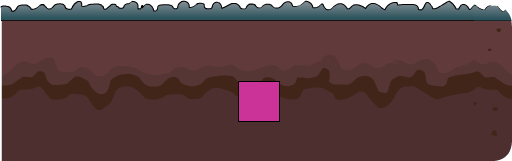
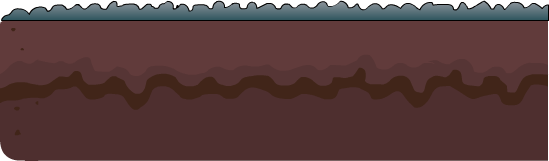
Updated level2 graphics

diff --git a/html/scripts/level2.js b/html/scripts/level2.js
@@ -7,16 +7,18 @@
  */
 var manifest = [
 	{src: "assets/images/mcTileMidDip.png", id: "PhysicsBorderRect"},
-	{src: "assets/images/mcTileMidDip.png", id: "TileMidDip"},
-	{src: "assets/images/mcTileMidBump.png", id: "TileMidBump"},
-	{src: "assets/images/mcTileEndLeft.png", id: "TileEndLeft"},
-	{src: "assets/images/mcTileEndRight.png", id: "TileEndRight"},
-	{src: "assets/images/mcTileBlockLeft.png", id: "TileBlockLeft"},
-	{src: "assets/images/mcTileBlockLeft2.png", id: "TileBlockLeft2"},
-	{src: "assets/images/mcTileBlockRight.png", id: "TileBlockRight"},
+	
+	{src: "assets/images/junkyard/mcTileMidDip.png", id: "TileMidDip"},
+	{src: "assets/images/junkyard/mcTileMidBump.png", id: "TileMidBump"},
+	{src: "assets/images/junkyard/mcTileEndLeft.png", id: "TileEndLeft"},
+	{src: "assets/images/junkyard/mcTileEndRight.png", id: "TileEndRight"},
+	{src: "assets/images/junkyard/mcTileBlockLeft.png", id: "TileBlockLeft"},
+	{src: "assets/images/junkyard/mcTileBlockLeft2.png", id: "TileBlockLeft2"},
+	{src: "assets/images/junkyard/mcTileBlockRight.png", id: "TileBlockRight"},
+	{src: "assets/images/junkyard/mcRamp.png", id: "Ramp"},
+	
 	{src: "assets/images/mcRobotJunk1.png", id: "RobotJunk1"},
 	{src: "assets/images/mcRobotJunk2.png", id: "RobotJunk2"},
-	{src: "assets/images/mcRamp.png", id: "Ramp"},
 	{src: "assets/images/gSign.png", id: "Sign"},
 	{src: "assets/images/Teleportor.png", id: "Teleportor"},
 	{src: "assets/images/mcTileMidDip.png", id: "Trigger"},
@@ -30,7 +32,9 @@ var manifest = [
 var songSet = 'pink-think';
 var deathZone = 4000;
 var nextLevelUrl = "level3.html";
-var level = {"elements":[{"type":"ParallaxBG","x":0,"height":326,"y":586,"width":2048},{"x":4336,"rotation":0,"y":2929,"type":"TileMidDip","height":163,"width":514.8},{"type":"TileBlockRight","x":5441,"height":513.7,"y":2775,"width":718.7},{"x":4836,"rotation":0,"y":2929,"type":"TileMidDip","height":163,"width":514.8},{"type":"Teleportor","x":4704,"height":322.8,"y":2731,"width":321},{"x":2459,"rotation":0,"y":2933,"type":"TileEndLeft","height":176.55,"width":192.75},{"x":2810,"rotation":0,"y":2939,"type":"TileMidBump","height":183,"width":516.55},{"x":3319,"rotation":0,"y":2929,"type":"TileMidDip","height":163,"width":514.8},{"x":3827,"rotation":0,"y":2939,"type":"TileMidBump","height":183,"width":516.55},{"x":3350,"rotation":0,"y":2818,"type":"TileEndLeft","height":176.55,"width":192.75},{"x":3534,"rotation":0,"y":2817,"type":"TileEndRight","height":176.55,"width":192.85},{"x":1452,"rotation":0,"y":3095,"type":"TileMidBump","height":183,"width":516.55},{"x":1961,"rotation":0,"y":3086,"type":"TileMidDip","height":163,"width":514.8},{"x":2301,"rotation":0,"y":3092,"type":"TileEndRight","height":176.55,"width":192.85},{"type":"RobotJunk1","x":2900,"height":184.5,"y":2851,"width":276.65},{"x":403,"rotation":0,"y":574,"type":"TileEndLeft","height":176.55,"width":192.75},{"x":753,"rotation":0,"y":577,"type":"TileMidBump","height":183,"width":516.55},{"x":1262,"rotation":0,"y":567,"type":"TileMidDip","height":163,"width":514.8},{"signText":"Well done! Did you know you can put numbers inside the parentheses?\n<br><br>\nLike this:\n<span class=\"codeExample\">jaxi.run(<b>800</b>);</span>\n<br><br>\nThis is called a <b>parameter</b>.","x":956,"y":384,"type":"Sign","scaleX":1,"height":278.6,"scaleY":1,"width":201.7},{"x":2598,"rotation":0,"y":578,"type":"TileEndRight","height":176.55,"width":192.85},{"x":2264,"rotation":0,"y":578,"type":"TileMidBump","height":183,"width":516.55},{"x":1774,"rotation":0,"y":578,"type":"TileMidBump","height":183,"width":516.55},{"x":2181,"y":480,"type":"Ramp","scaleX":1,"height":207.5,"scaleY":1,"width":944.9},{"type":"BubblePop","x":844,"height":174.8,"y":419,"width":177.6},{"x":2613,"rotation":-31.518768310546875,"y":1678,"type":"TileEndLeft","height":176.55,"width":196.6},{"x":2914,"rotation":-31.518768310546875,"y":1497,"type":"TileMidBump","height":183,"width":520.55},{"x":3557,"rotation":-85.51199340820313,"y":302,"type":"TileMidDip","height":163,"width":518.35},{"x":3685,"rotation":-74.99945068359375,"y":-1017,"type":"TileEndRight","height":176.55,"width":192.85},{"x":3464,"rotation":-70.51361083984375,"y":749,"type":"TileMidDip","height":163,"width":518.35},{"x":3252,"rotation":-55.51463317871094,"y":1178,"type":"TileMidBump","height":183,"width":520.55},{"type":"TileBlockLeft2","x":856,"height":520.05,"y":2925,"width":718.7},{"type":"RobotJunk1","x":1568,"height":184.5,"y":2987,"width":276.65},{"type":"RobotJunk1","x":1438,"height":184.5,"y":2957,"width":276.65},{"type":"RobotJunk1","x":1348,"height":184.5,"y":2997,"width":276.65},{"type":"RobotJunk2","x":1818,"height":151.3,"y":3029,"width":297.7},{"x":1027,"y":-132,"type":"gjaxi"},{"x":2169,"y":2904,"type":"Choco"},{"type":"RobotJunk1","x":1478,"height":184.5,"y":3027,"width":276.65},{"x":1609,"js":"runConversation(0);","y":3009,"type":"Trigger","height":47.3,"width":801.5},{"type":"RobotJunk2","x":4211,"height":151.3,"y":2909,"width":297.7},{"x":3636,"rotation":-85.51199340820313,"y":-689,"type":"TileMidDip","height":163,"width":518.35},{"x":3596,"rotation":-85.51199340820313,"y":-181,"type":"TileMidDip","height":163,"width":518.35},{"x":1486,"rotation":0,"y":666,"type":"PhysicsBorderRect","height":256,"width":2332},{"x":3626,"rotation":4.9647216796875,"y":-209,"type":"PhysicsBorderRect","height":1751,"width":128.4},{"x":887,"rotation":0,"y":2937,"type":"PhysicsBorderRect","height":500,"width":643.5},{"x":1815,"rotation":0,"y":3195,"type":"PhysicsBorderRect","height":256,"width":1279},{"x":3746,"rotation":0,"y":3050,"type":"PhysicsBorderRect","height":256,"width":2681.5},{"x":5446,"rotation":0,"y":2785,"type":"PhysicsBorderRect","height":500,"width":707.8},{"x":3439,"rotation":0,"y":2867,"type":"PhysicsBorderRect","height":172.7,"width":271.1},{"x":3497,"rotation":19.96435546875,"y":809,"type":"PhysicsBorderRect","height":344.8,"width":100.9},{"x":3304,"rotation":34.963134765625,"y":1164,"type":"PhysicsBorderRect","height":481.3,"width":100.9},{"x":2888,"rotation":58.7034912109375,"y":1534,"type":"PhysicsBorderRect","height":683.5,"width":100.9},{"type":"ParallaxFG","x":0,"height":1024,"y":0,"width":337}]}
+
+//var level = {"elements":[{"type":"ParallaxBG","x":0,"height":326,"y":586,"width":2048},{"x":4336,"rotation":0,"y":2929,"type":"TileMidDip","height":163,"width":514.8},{"type":"TileBlockRight","x":5441,"height":513.7,"y":2775,"width":718.7},{"x":4836,"rotation":0,"y":2929,"type":"TileMidDip","height":163,"width":514.8},{"type":"Teleportor","x":4704,"height":322.8,"y":2731,"width":321},{"x":2459,"rotation":0,"y":2933,"type":"TileEndLeft","height":176.55,"width":192.75},{"x":2810,"rotation":0,"y":2939,"type":"TileMidBump","height":183,"width":516.55},{"x":3319,"rotation":0,"y":2929,"type":"TileMidDip","height":163,"width":514.8},{"x":3827,"rotation":0,"y":2939,"type":"TileMidBump","height":183,"width":516.55},{"x":3350,"rotation":0,"y":2818,"type":"TileEndLeft","height":176.55,"width":192.75},{"x":3534,"rotation":0,"y":2817,"type":"TileEndRight","height":176.55,"width":192.85},{"x":1452,"rotation":0,"y":3095,"type":"TileMidBump","height":183,"width":516.55},{"x":1961,"rotation":0,"y":3086,"type":"TileMidDip","height":163,"width":514.8},{"x":2301,"rotation":0,"y":3092,"type":"TileEndRight","height":176.55,"width":192.85},{"type":"RobotJunk1","x":2900,"height":184.5,"y":2851,"width":276.65},{"x":403,"rotation":0,"y":574,"type":"TileEndLeft","height":176.55,"width":192.75},{"x":753,"rotation":0,"y":577,"type":"TileMidBump","height":183,"width":516.55},{"x":1262,"rotation":0,"y":567,"type":"TileMidDip","height":163,"width":514.8},{"signText":"Well done! Did you know you can put numbers inside the parentheses?\n<br><br>\nLike this:\n<span class=\"codeExample\">jaxi.run(<b>800</b>);</span>\n<br><br>\nThis is called a <b>parameter</b>.","x":956,"y":384,"type":"Sign","scaleX":1,"height":278.6,"scaleY":1,"width":201.7},{"x":2598,"rotation":0,"y":578,"type":"TileEndRight","height":176.55,"width":192.85},{"x":2264,"rotation":0,"y":578,"type":"TileMidBump","height":183,"width":516.55},{"x":1774,"rotation":0,"y":578,"type":"TileMidBump","height":183,"width":516.55},{"x":2181,"y":480,"type":"Ramp","scaleX":1,"height":207.5,"scaleY":1,"width":944.9},{"type":"BubblePop","x":844,"height":174.8,"y":419,"width":177.6},{"x":2613,"rotation":-31.518768310546875,"y":1678,"type":"TileEndLeft","height":176.55,"width":196.6},{"x":2914,"rotation":-31.518768310546875,"y":1497,"type":"TileMidBump","height":183,"width":520.55},{"x":3557,"rotation":-85.51199340820313,"y":302,"type":"TileMidDip","height":163,"width":518.35},{"x":3685,"rotation":-74.99945068359375,"y":-1017,"type":"TileEndRight","height":176.55,"width":192.85},{"x":3464,"rotation":-70.51361083984375,"y":749,"type":"TileMidDip","height":163,"width":518.35},{"x":3252,"rotation":-55.51463317871094,"y":1178,"type":"TileMidBump","height":183,"width":520.55},{"type":"TileBlockLeft2","x":856,"height":520.05,"y":2925,"width":718.7},{"type":"RobotJunk1","x":1568,"height":184.5,"y":2987,"width":276.65},{"type":"RobotJunk1","x":1438,"height":184.5,"y":2957,"width":276.65},{"type":"RobotJunk1","x":1348,"height":184.5,"y":2997,"width":276.65},{"type":"RobotJunk2","x":1818,"height":151.3,"y":3029,"width":297.7},{"x":1027,"y":-132,"type":"gjaxi"},{"x":2169,"y":2904,"type":"Choco"},{"type":"RobotJunk1","x":1478,"height":184.5,"y":3027,"width":276.65},{"x":1609,"js":"runConversation(0);","y":3009,"type":"Trigger","height":47.3,"width":801.5},{"type":"RobotJunk2","x":4211,"height":151.3,"y":2909,"width":297.7},{"x":3636,"rotation":-85.51199340820313,"y":-689,"type":"TileMidDip","height":163,"width":518.35},{"x":3596,"rotation":-85.51199340820313,"y":-181,"type":"TileMidDip","height":163,"width":518.35},{"x":1486,"rotation":0,"y":666,"type":"PhysicsBorderRect","height":256,"width":2332},{"x":3626,"rotation":4.9647216796875,"y":-209,"type":"PhysicsBorderRect","height":1751,"width":128.4},{"x":887,"rotation":0,"y":2937,"type":"PhysicsBorderRect","height":500,"width":643.5},{"x":1815,"rotation":0,"y":3195,"type":"PhysicsBorderRect","height":256,"width":1279},{"x":3746,"rotation":0,"y":3050,"type":"PhysicsBorderRect","height":256,"width":2681.5},{"x":5446,"rotation":0,"y":2785,"type":"PhysicsBorderRect","height":500,"width":707.8},{"x":3439,"rotation":0,"y":2867,"type":"PhysicsBorderRect","height":172.7,"width":271.1},{"x":3497,"rotation":19.96435546875,"y":809,"type":"PhysicsBorderRect","height":344.8,"width":100.9},{"x":3304,"rotation":34.963134765625,"y":1164,"type":"PhysicsBorderRect","height":481.3,"width":100.9},{"x":2888,"rotation":58.7034912109375,"y":1534,"type":"PhysicsBorderRect","height":683.5,"width":100.9},{"type":"ParallaxFG","x":0,"height":1024,"y":0,"width":337}]}
+var level = {"elements":[{"type":"ParallaxBG","width":2048,"x":0,"height":326,"y":586},{"type":"TileMidBump","x":1973,"height":160.6,"y":3095,"width":548.9,"rotation":0},{"type":"TileBlockRight","width":568.3,"x":5367,"height":446.85,"y":2795},{"type":"Teleportor","width":321,"x":4704,"height":322.8,"y":2731},{"type":"TileEndLeft","x":2470,"height":160.35,"y":2939,"width":190.65,"rotation":0},{"type":"TileMidBump","x":2810,"height":160.6,"y":2939,"width":548.9,"rotation":0},{"type":"TileEndLeft","x":3350,"height":160.35,"y":2806,"width":190.65,"rotation":0},{"type":"TileEndRight","x":3534,"height":160.35,"y":2805,"width":190.65,"rotation":0},{"type":"TileBlockLeft2","width":568.3,"x":917,"height":446.85,"y":2952},{"type":"TileMidBump","x":1452,"height":160.6,"y":3095,"width":548.9,"rotation":0},{"type":"TileEndRight","x":2301,"height":160.35,"y":3093,"width":190.65,"rotation":0},{"type":"RobotJunk1","width":276.65,"x":2900,"height":184.5,"y":2851},{"type":"TileMidBump","x":753,"height":160.6,"y":577,"width":548.9,"rotation":0},{"type":"Sign","x":956,"signText":"Well done! Did you know you can put numbers inside the parentheses? <br><br> Like this: <span class=\"codeExample\">jaxi.run(<b>800</b>);</span> <br><br> This is called a <b>parameter</b>.","height":285.75,"y":384,"width":287.45,"scaleX":1,"scaleY":1},{"type":"TileEndRight","x":2598,"height":160.35,"y":578,"width":190.65,"rotation":0},{"type":"TileMidBump","x":2264,"height":160.6,"y":578,"width":548.9,"rotation":0},{"type":"TileMidBump","x":1774,"height":160.6,"y":577,"width":548.9,"rotation":0},{"type":"Ramp","x":2180,"height":255.95,"y":456,"width":1027.85,"scaleX":1,"scaleY":1},{"type":"BubblePop","width":177.6,"x":844,"height":174.8,"y":419},{"type":"TileEndLeft","x":2613,"height":160.35,"y":1678,"width":194.15,"rotation":-31.518768310546875},{"type":"TileMidBump","x":2914,"height":160.6,"y":1497,"width":552.4,"rotation":-31.518768310546875},{"type":"TileMidDip","x":3560,"height":160.6,"y":248,"width":552.4,"rotation":-85.51199340820313},{"type":"TileMidDip","x":3464,"height":160.6,"y":723,"width":552.4,"rotation":-72.77668762207031},{"type":"TileMidBump","x":3251,"height":160.6,"y":1176,"width":552.4,"rotation":-55.51463317871094},{"type":"RobotJunk1","width":276.65,"x":1568,"height":184.5,"y":2987},{"type":"RobotJunk1","width":276.65,"x":1438,"height":184.5,"y":2957},{"type":"RobotJunk1","width":276.65,"x":1348,"height":184.5,"y":2997},{"type":"RobotJunk2","width":297.7,"x":1818,"height":151.3,"y":3029},{"type":"Choco","x":2169,"y":2904},{"type":"RobotJunk1","width":276.65,"x":1478,"height":184.5,"y":3027},{"type":"RobotJunk2","width":297.7,"x":4211,"height":151.3,"y":2909},{"type":"TileMidDip","x":3636,"height":160.6,"y":-724,"width":552.4,"rotation":-85.51199340820313},{"type":"TileMidDip","x":3596,"height":160.6,"y":-216,"width":552.4,"rotation":-85.51199340820313},{"type":"TileMidBump","x":1262,"height":160.6,"y":577,"width":548.9,"rotation":0},{"type":"TileMidBump","x":3827,"height":160.6,"y":2940,"width":548.9,"rotation":0},{"type":"TileMidBump","x":3303,"height":160.6,"y":2939,"width":548.9,"rotation":0},{"type":"TileMidBump","x":4337,"height":160.6,"y":2940,"width":548.9,"rotation":0},{"type":"TileMidBump","x":4832,"height":160.6,"y":2940,"width":548.9,"rotation":0},{"type":"Trigger","x":1609,"height":47.3,"y":3009,"width":801.5,"js":"runConversation(0);"},{"type":"gjaxi","x":1027,"y":-132},{"type":"PhysicsBorderRect","x":1586,"height":256,"y":646,"width":2213.2,"rotation":0},{"type":"PhysicsBorderRect","x":3604,"height":1474.9,"y":-260,"width":128.4,"rotation":4.57489013671875},{"type":"PhysicsBorderRect","x":918,"height":449.4,"y":2961,"width":568.1,"rotation":0},{"type":"PhysicsBorderRect","x":1817,"height":256,"y":3170,"width":1279,"rotation":0},{"type":"PhysicsBorderRect","x":3730,"height":256,"y":3016,"width":2712.4,"rotation":0},{"type":"PhysicsBorderRect","x":5441,"height":500,"y":2793,"width":707.8,"rotation":0},{"type":"PhysicsBorderRect","x":3442,"height":172.7,"y":2840,"width":370.6,"rotation":0},{"type":"PhysicsBorderRect","x":3458,"height":529.3,"y":714,"width":100.9,"rotation":16.994903564453125},{"type":"PhysicsBorderRect","x":3251,"height":481.3,"y":1158,"width":100.9,"rotation":34.96430969238281},{"type":"PhysicsBorderRect","x":2820,"height":683.5,"y":1543,"width":100.9,"rotation":58.7034912109375},{"type":"ParallaxFG","width":337,"x":0,"height":1024,"y":0}]}
 
 var conversations = [
 	{actions: [

diff --git a/html/level2.html b/html/level2.html
@@ -29,10 +29,11 @@
 
 <div class="gameFrame">
 
-	<video id="bgbVideo" class="videoContainer" width="1024" height="768" autoplay loop>
+	<!--video id="bgbVideo" class="videoContainer" width="1024" height="768" autoplay loop>
 		<source src="assets/videos/Pink_FacilityOutside.ogv" type="video/ogg" />
 		<source src="assets/videos/Pink_FacilityOutside.mp4" type="video/mp4" />
-	</video>
+	</video-->
+	<div id="gameBackground" width="1024" height="768"></div>
 	<canvas id="mainStage" class="gameContainer" width="1024" height="768" ></canvas>
 	<canvas id="debugCanvas" class="gameContainer" width="1024" height="768" ></canvas>
 	<div id="debug" style="position: absolute; top: 840px;">Show/Hide Debug</div>
